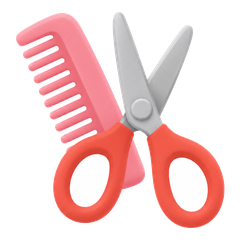
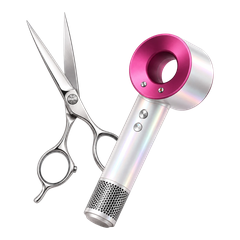
홈 카테고리 아이콘 10개 사장 새 일러스트로 교체 + 첫 두 칸 결혼식·행사 사회자로
- category-icons 같은 파일명 덮어쓰기(투명 바탕 · 내용 90% 정사각 · 240px) → 웹 홈 칸·PC 헤더 줄·iOS 네이티브 홈 동시 반영
  결혼식사회자=백합+마이크(wedding-mc-icon) · 행사사회자=와인+마이크(event-mc-icon) · 외국어=지구본 · 웨딩홀=샹들리에 ·
  드레스=드레스+유리구두 · 피부과=마스크팩+주사기 · 스튜디오=주황 카메라 · 헤어=가위+드라이어 · 메이크업=브러시·팩트·립스틱 · 스냅=즉석카메라+사진
- 첫 두 칸: 남성사회자·여성사회자 → 결혼식사회자(/pros?category=결혼식사회자)·행사사회자(전문행사사회자)로 되돌림(사장 지시).
  웹 홈 칸·PC 헤더 줄 즉시, iOS 칸 이름·연결은 다음 빌드부터(아이콘 그림은 서버 파일이라 지금 빌드도 바로)
- 홈 위 큰 카드 2장(전문결혼식·전문행사 사회자 찾기) 사람 그림은 그대로(사장 확인)

diff --git a/apps/web/src/app/(main)/main/page.tsx b/apps/web/src/app/(main)/main/page.tsx
@@ -1154,8 +1154,9 @@ function getHomeCategoryItems(): HomeCategoryItem[] {
 
   return [
     // 남성/여성 사회자(사장 지시 260925 — 결혼식·행사 대신 성별로). 아이콘은 턱시도 남자·파란 재킷 여자 일러스트
-    { name: '남성사회자', img: `${HOME_CATEGORY_ICON_DIR}/wedding-mc-icon.png`, href: '/pros?gender=male' },
-    { name: '여성사회자', img: `${HOME_CATEGORY_ICON_DIR}/event-mc-icon.png`, href: '/pros?gender=female' },
+    // 결혼식·행사 사회자(260926 사장 — 남성/여성 칸을 다시 결혼식·행사로, 아이콘은 백합+마이크·와인+마이크 새 일러스트)
+    { name: '결혼식사회자', img: `${HOME_CATEGORY_ICON_DIR}/wedding-mc-icon.png`, href: proCategoryHref('결혼식사회자') },
+    { name: '행사사회자', img: `${HOME_CATEGORY_ICON_DIR}/event-mc-icon.png`, href: proCategoryHref('전문행사사회자') },
     { name: '외국어사회자', img: `${HOME_CATEGORY_ICON_DIR}/foreign-mc.png`, href: proCategoryHref('외국어사회자') },
     ...weddingPartnerCats,
     ...applianceCat,

diff --git a/apps/web/src/app/(main)/layout.tsx b/apps/web/src/app/(main)/layout.tsx
@@ -102,8 +102,8 @@ const MyTabIcon = ({ active, className }: TabIconProps) => (
  * 이동 경로가 끊기지 않게 한다. (PC 홈 전용)
  */
 const HEADER_CATEGORIES: { name: string; img: string; href: string }[] = [
-  { name: '남성사회자', img: '/images/category-icons/wedding-mc-icon.png', href: '/pros?gender=male' },
-  { name: '여성사회자', img: '/images/category-icons/event-mc-icon.png', href: '/pros?gender=female' },
+  { name: '결혼식사회자', img: '/images/category-icons/wedding-mc-icon.png', href: '/pros?category=%EA%B2%B0%ED%98%BC%EC%8B%9D%EC%82%AC%ED%9A%8C%EC%9E%90' },
+  { name: '행사사회자', img: '/images/category-icons/event-mc-icon.png', href: '/pros?category=%EC%A0%84%EB%AC%B8%ED%96%89%EC%82%AC%EC%82%AC%ED%9A%8C%EC%9E%90' },
   { name: '외국어사회자', img: '/images/category-icons/foreign-mc.png', href: '/pros?category=%EC%99%B8%EA%B5%AD%EC%96%B4%EC%82%AC%ED%9A%8C%EC%9E%90' },
   ...WEDDING_PARTNER_CATEGORIES.filter((name) => name !== '가전').map((name) => ({
     name,

diff --git a/apps/ios/Freetiful App/WebView/NativeHomeSections.swift b/apps/ios/Freetiful App/WebView/NativeHomeSections.swift
@@ -369,8 +369,8 @@ final class HomeCategoryIcons: UIView {
 
     private static let items: [(label: String, icon: String, href: String)] = [
         // 카테고리 칸 전용 아이콘(웹 public 에서 받아옴) — wedding-mc.png·event-mc.png 는 위 히어로 카드 사진
-        ("남성사회자", "wedding-mc-icon.png", "/pros?gender=male"),
-        ("여성사회자", "event-mc-icon.png", "/pros?gender=female"),
+        ("결혼식사회자", "wedding-mc-icon.png", "/pros?category=결혼식사회자"),
+        ("행사사회자", "event-mc-icon.png", "/pros?category=전문행사사회자"),
         ("외국어사회자", "foreign-mc.png", "/pros?category=외국어사회자"),
         ("웨딩홀", "wedding-hall.png", "/businesses?category=웨딩홀"),
         ("드레스", "dress.png", "/businesses?category=드레스"),
